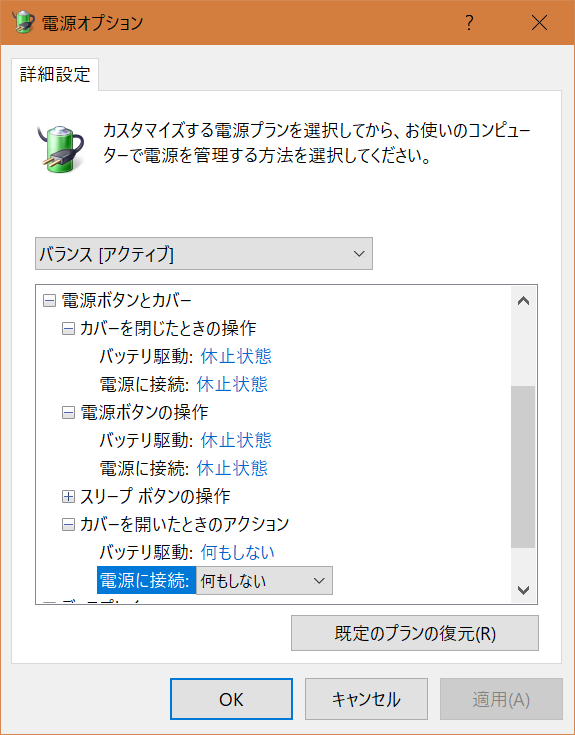
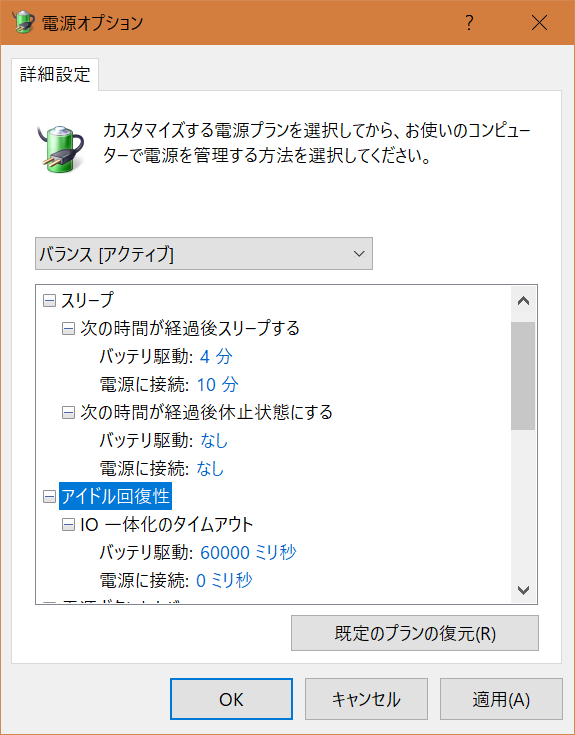
Document update.

diff --git a/_posts/2017-08-12-GPD-Pocket-Setup.md b/_posts/2017-08-12-GPD-Pocket-Setup.md
@@ -7,6 +7,11 @@ tags: blog, gpd_pocket, windows10, bash_on_windows, docker, docker_for_windows, 
 
 GPD Pocket を購入したので設定メモ。Windows10を使うのも初めてということもあり、前半はGPD Pocket 特有の話も書いてあるが、後半はWindows10の環境構築の話がメインになってしまった。
 
+# 初期設定
+Wiki(http://gpd.wiki)[http://gpd.wiki] ができて情報が集約されているので、まずはそちらを参照する。
+* Wifi driverの更新
+
+
 # 処理能力
 * マルチタスク的な状況だと重さを感じる。たとえば、ブラウザを起動して複数のページを処理しているときとか、Facebookのウェブページとか。
 * タスクマネージャで見るとCPU は4つ見える。
@@ -15,10 +20,13 @@ GPD Pocket を購入したので設定メモ。Windows10を使うのも初めて
 * System task が30%ほど電力を食い続ける→Intel DPTF ドライバの不良。最新のWindows Update で直っている(8.3.10205.4743 [2017/06/22])？
 * 30%以上にCPUが回らない→BIOSの不具合？ 2017/07/03より以前のBIOSにすれば治る？ 2017-08-16時点では対策中？
 
-# バッテリー
-MIROさんの記事に従ってレジストリを編集し、電源オプションでカバーを開いたときのアクションを設定できるようにして「何もしない」にすればOK。ちゃんとスリープ(メモリを保持)＆休止(ディスクにメモリを書き出す)してくれるし、ちょっと使いには十分バッテリーが持つ。3時間ぐらいが実用か？ スリープは、勝手に起動することがあるので休止で運用中。
+# バッテリー＆スリープ
+MIROさんの記事に従ってレジストリを編集し、電源オプションでカバーを開いたときのアクションを設定できるようにして「何もしない」にすればOK。ちゃんとスリープ(メモリを保持)＆休止(ディスクにメモリを書き出す)してくれるし、ちょっと使いには十分バッテリーが持つ。3時間ぐらいが実用か？
+スリープから勝手に起動してしまう場合はWifiドライバの手動更新と、IO一体化タイムアウトのレジストリ編集で治ると思う。
+休止からの復帰は、上述の30% 問題があるので、スリープでの運用が推奨されている。
 
-<div align="center"><img src="/images/2017-08-12-gpd-pocket-power-plan1.png" alt="powerplan"></div>
+
+<div align="center"><img src="/images/2017-08-12-gpd-pocket-power-plan1.png" alt="powerplan"><img src="/images/2017-08-12-gpd-pocket-power-plan2.png" alt="powerplan"></div>
 
 # キーボード、ポインタ
 自宅ではUbuntu+Realforce(JIS配列,かな入力,Mozc,変換/無変換でIME ON/OFF)、有線Microsoft Mouse。勤務先ではLet's Note+Windows 7(JIS配列,ローマ字入力,MS-IME, Alt+漢字でIME ON/OFF')、ホイールパッド(ホイールスクロールやタップを無効)、という構成。
@@ -29,6 +37,7 @@ AutoHotKey を使って、キー配列をカスタマイズした。
 * `AppsKey::MButton` アプリケーションキー(スペースキーの右にある[三])をマウスのミドルボタンに割り当ててスクロールさせる。
 * `RAlt::Send, {vkF3sc029}` 右ALTキーを、全角半角キーに割り当てて、IMEのON/OFFを右ALTキーで行う。
 * `CapsLock::Tab`, `Tab::CapsLock` TABとCapsLockを入れ替える。本来、TABはQの左だが、Aの左のほうがまだマシ。コマンドラインの補完で使用頻度が高い。
+* `Delete::Backspace`,`Backspace::Delete` BS と Del だとBSの方が使用頻度が高いので、電源キーより遠いところに配置する。そもそも、通常のキーボードでは、Enterの上はBS。
 
 BSキーと電源が近接しているのは殺意を覚えることがしばしばある。
 
